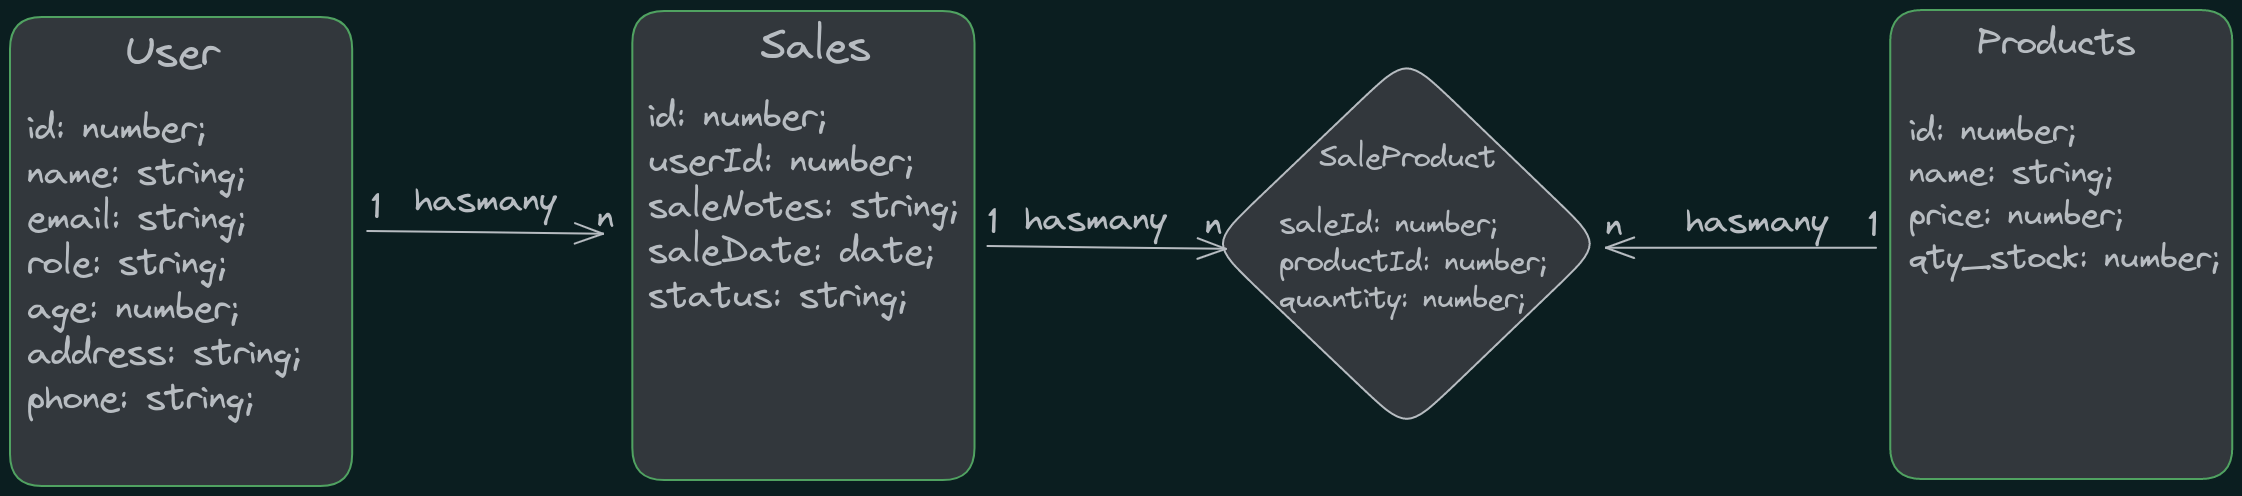
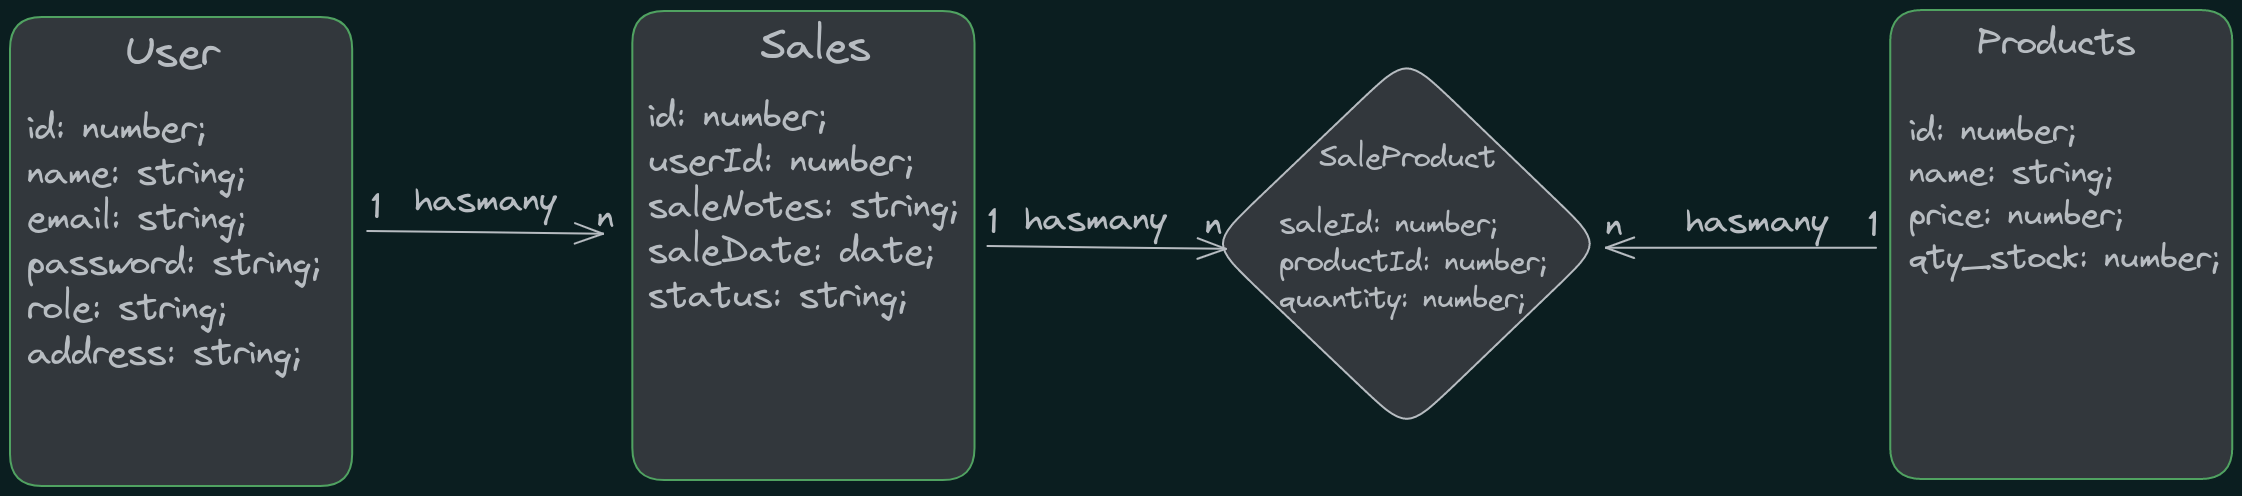
build: backend - creating tables models

Changed region(s): [[0.0, 0.5141, 0.1561, 0.5746], [0.0, 0.7863, 0.1249, 0.8468], [0.0, 0.6048, 0.1249, 0.6653]]

diff --git a/backend/src/database/models/sales.model.js b/backend/src/database/models/sales.model.js
@@ -1,0 +1,41 @@
+/* eslint-disable max-lines-per-function */
+const UserModel = (sequelize, DataTypes) => {
+  const Sales = sequelize.define(
+    'Sales',
+    {
+      id: {
+        type: DataTypes.INTEGER,
+        primaryKey: true,
+        allowNull: false,
+        autoIncrement: true,
+      },
+      userId: {
+        type: DataTypes.STRING,
+        allowNull: false,
+        foreignKey: true,
+        references: {
+          model: 'users',
+          key: 'id',
+        },
+      },
+      saleNotes: {
+        type: DataTypes.STRING,
+        allowNull: true,
+        field: 'sale_notes',
+      },
+      saleDate: {
+        type: DataTypes.DATE,
+        field: 'sale_date',
+        allowNull: false,
+      },
+      status: {
+        type: DataTypes.STRING,
+        allowNull: false,
+      },
+    },
+  );
+
+  return Sales;
+};
+
+module.exports = UserModel;

diff --git a/backend/src/database/models/users.model.js b/backend/src/database/models/users.model.js
@@ -1,0 +1,38 @@
+/* eslint-disable max-lines-per-function */
+const UserModel = (sequelize, DataTypes) => {
+  const Users = sequelize.define(
+    'Users',
+    {
+      id: {
+        type: DataTypes.INTEGER,
+        primaryKey: true,
+        allowNull: false,
+        autoIncrement: true,
+      },
+      role: {
+        type: DataTypes.STRING,
+        allowNull: false,
+      },
+      address: {
+        type: DataTypes.STRING,
+        allowNull: false,
+      },
+      password: {
+        type: DataTypes.STRING,
+        allowNull: false,
+      },
+      name: {
+        type: DataTypes.STRING,
+        allowNull: false,
+      },
+      email: {
+        type: DataTypes.STRING,
+        allowNull: false,
+      },
+    },
+  );
+
+  return Users;
+};
+
+module.exports = UserModel;

diff --git a/backend/src/database/models/saleProducts.model.js b/backend/src/database/models/saleProducts.model.js
@@ -1,0 +1,32 @@
+/* eslint-disable max-lines-per-function */
+const UserModel = (sequelize, DataTypes) => {
+  const SaleProducts = sequelize.define(
+    'SaleProducts',
+    {
+      saleId: {
+        type: DataTypes.INTEGER,
+        allowNull: false,
+        foreignKey: true,
+        references: {
+          model: 'sales',
+          key: 'id',
+        },
+        field: 'sale_id',
+      },
+      productId: {
+        type: DataTypes.INTEGER,
+        allowNull: false,
+        foreignKey: true,
+        references: {
+          model: 'products',
+          key: 'id',
+        },
+        field: 'product_id',
+      },
+    },
+  );
+
+  return SaleProducts;
+};
+
+module.exports = UserModel;

diff --git a/backend/src/database/models/products.model.js b/backend/src/database/models/products.model.js
@@ -1,0 +1,31 @@
+/* eslint-disable max-lines-per-function */
+const UserModel = (sequelize, DataTypes) => {
+  const Users = sequelize.define(
+    'Users',
+    {
+      id: {
+        type: DataTypes.INTEGER,
+        primaryKey: true,
+        allowNull: false,
+        autoIncrement: true,
+      },
+      name: {
+        type: DataTypes.STRING,
+        allowNull: false,
+      },
+      price: {
+        type: DataTypes.INTEGER,
+        allowNull: false,
+      },
+      qtyStock: {
+        type: DataTypes.INTEGER,
+        allowNull: false,
+        field: 'qty_stock',
+      },
+    },
+  );
+
+  return Users;
+};
+
+module.exports = UserModel;
